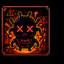
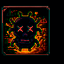
removido iconSecondary de 30 skills

diff --git a/backend/scripts/process-beta-icons.ts b/backend/scripts/process-beta-icons.ts
@@ -1,0 +1,72 @@
+import sharp from 'sharp';
+import path from 'path';
+import fs from 'fs';
+import { PrismaClient } from '@prisma/client';
+import { openTunnel } from './db-tunnel';
+
+const src = 'C:/Users/Dark/Desktop/Beta Tester.png';
+const outDir = path.resolve(__dirname, '../../frontend/public/iconskill');
+const names = [
+  'beta-comando-basico',
+  'beta-injecao-de-bug',
+  'beta-overclock-de-sistema',
+  'beta-exploit-de-vulnerabilidade',
+  'beta-crash-de-realidade',
+];
+
+async function main() {
+  const meta = await sharp(src).metadata();
+  console.log(`Original: ${meta.width}x${meta.height}`);
+
+  const cellW = Math.floor(meta.width! / 5);
+  const cellH = meta.height!;
+  const size = Math.min(cellW, cellH);
+
+  fs.mkdirSync(outDir, { recursive: true });
+
+  for (let i = 0; i < 5; i++) {
+    const left = i * cellW + Math.floor((cellW - size) / 2);
+    const top = Math.floor((cellH - size) / 2);
+
+    const { data, info } = await sharp(src)
+      .extract({ left, top, width: size, height: size })
+      .resize(64, 64, { fit: 'fill' })
+      .raw()
+      .toBuffer({ resolveWithObject: true });
+
+    const channels = info.channels;
+    for (let p = 0; p < data.length; p += channels) {
+      const r = data[p], g = data[p + 1], b = data[p + 2];
+      if (r < 30 && g < 30 && b < 30) {
+        data[p + 3] = 0;
+      }
+    }
+
+    const png = await sharp(data, { raw: { width: 64, height: 64, channels } })
+      .png()
+      .toBuffer();
+
+    const file = path.join(outDir, names[i] + '.png');
+    fs.writeFileSync(file, png);
+    console.log(`${names[i]}.png: ${png.length} bytes`);
+  }
+
+  const tunnel = await openTunnel();
+  const p = new PrismaClient({ datasources: { db: { url: tunnel.url } } });
+  try {
+    const classes = await p.gameClass.findMany({ select: { id: true } });
+    const classIds = classes.map(c => c.id);
+    const result = await p.skill.updateMany({
+      where: { classId: { in: classIds } },
+      data: { iconSecondary: null },
+    });
+    console.log(`iconSecondary removido de ${result.count} skills`);
+  } finally {
+    await p.$disconnect().catch(() => {});
+    tunnel.close();
+  }
+
+  console.log('OK');
+}
+
+main().catch((e) => { console.error(e.message); process.exit(1); });

diff --git a/frontend/src/pages/ClassPage.tsx b/frontend/src/pages/ClassPage.tsx
@@ -166,11 +166,8 @@ export function ClassPage() {
           }`}>
             {locked ? <Lock size={16} className="text-gray-300" />
               : skill.icon ? (
-                <div className="relative w-10 h-10 flex items-center justify-center">
+                <div className="w-10 h-10 flex items-center justify-center">
                   <EntityIcon src={skill.icon} size={22} className="text-white" imgClassName="w-8 h-8 object-contain" />
-                  {skill.iconSecondary && (
-                    <EntityIcon src={skill.iconSecondary} size={22} className="absolute inset-0" imgClassName="absolute inset-0 w-8 h-8 m-auto object-contain translate-x-1 translate-y-1" />
-                  )}
                 </div>
               )
               : isUlt ? <Zap size={18} className="text-white" />
@@ -384,11 +381,8 @@ export function ClassPage() {
             <div>
               <div className="flex items-center gap-2">
                 {selectedSkill.icon && (
-                  <div className="relative w-8 h-8 shrink-0">
+                  <div className="w-8 h-8 shrink-0">
                     <EntityIcon src={selectedSkill.icon} size={22} className="text-white" imgClassName="w-full h-full object-contain" />
-                    {selectedSkill.iconSecondary && (
-                      <EntityIcon src={selectedSkill.iconSecondary} size={22} className="absolute inset-0" imgClassName="absolute inset-0 w-full h-full object-contain translate-x-1 translate-y-1" />
-                    )}
                   </div>
                 )}
                 <h3 className="text-lg font-display font-bold">{selectedSkill.name}</h3>

diff --git a/admin/src/pages/SkillsPage.tsx b/admin/src/pages/SkillsPage.tsx
@@ -174,7 +174,6 @@ export default function SkillsPage() {
       slug: form.slug || form.name.toLowerCase().normalize("NFD").replace(/[\u0300-\u036f]/g, "").replace(/[^a-z0-9]+/g, "-").replace(/^-+|-+$/g, "") || `skill-${Date.now()}`,
       description: form.description,
       icon: form.icon || null,
-      iconSecondary: form.iconSecondary || null,
       kind: form.kind,
       trigger: form.trigger,
       target: form.target,
@@ -698,10 +697,6 @@ export default function SkillsPage() {
                 <div>
                   <label className="block text-sm text-gray-400 mb-1.5">Icon</label>
                   <IconPicker categories={["Skills"]} value={form.icon} onChange={(v) => setForm({ ...form, icon: v })} placeholder="Ícone principal da skill" />
-                </div>
-                <div>
-                  <label className="block text-sm text-gray-400 mb-1.5">Icon Secundário (efeito)</label>
-                  <IconPicker categories={["Skills"]} value={form.iconSecondary} onChange={(v) => setForm({ ...form, iconSecondary: v })} placeholder="Ícone extra exibido junto" />
                 </div>
                 <div className="sm:col-span-2">
                   <button

diff --git a/frontend/src/pages/CombatPage.tsx b/frontend/src/pages/CombatPage.tsx
@@ -790,11 +790,8 @@ export function CombatPage() {
                     {locked ? (
                       <Lock size={18} className="mx-auto mb-1 text-gray-500" />
                     ) : skill.icon ? (
-                      <div className="relative mx-auto mb-1 w-6 h-6">
+                      <div className="mx-auto mb-1 w-6 h-6">
                         <EntityIcon src={skill.icon} size={22} className="mx-auto" imgClassName="w-full h-full object-contain" />
-                        {skill.iconSecondary && (
-                          <EntityIcon src={skill.iconSecondary} size={22} className="absolute inset-0" imgClassName="absolute inset-0 w-full h-full object-contain translate-x-1 translate-y-1" />
-                        )}
                       </div>
                     ) : skill.trigger === "ultimate" ? (
                       <Zap size={18} className="mx-auto mb-1 text-yellow-400" />

diff --git a/frontend/src/pages/ArenaPage.tsx b/frontend/src/pages/ArenaPage.tsx
@@ -530,11 +530,8 @@ export function ArenaPage() {
                         </span>
                       )}
                       {skill.icon ? (
-                        <div className="relative w-6 h-6 mx-auto mb-1">
+                        <div className="w-6 h-6 mx-auto mb-1">
                           <EntityIcon src={skill.icon} size={22} className="mx-auto" imgClassName="w-full h-full object-contain" />
-                          {skill.iconSecondary && (
-                            <EntityIcon src={skill.iconSecondary} size={22} className="absolute inset-0" imgClassName="absolute inset-0 w-full h-full object-contain translate-x-1 translate-y-1" />
-                          )}
                         </div>
                       ) : skill.trigger === "ultimate" ? (
                         <Zap size={18} className="mx-auto mb-1 text-yellow-400" />

diff --git a/backend/scripts/remove-secondary-icons.ts b/backend/scripts/remove-secondary-icons.ts
@@ -1,0 +1,24 @@
+import { PrismaClient } from '../src/generated/prisma';
+
+const prisma = new PrismaClient();
+
+async function main() {
+  const result = await prisma.skill.updateMany({
+    where: { classId: { not: null } },
+    data: { iconSecondary: null },
+  });
+  console.log(`iconSecondary removido de ${result.count} skills`);
+
+  const check = await prisma.skill.findMany({
+    where: { iconSecondary: { not: null } },
+    select: { name: true, iconSecondary: true },
+  });
+  if (check.length > 0) {
+    console.log('Ainda restam skills com iconSecondary:');
+    check.forEach(s => console.log(`  ${s.name}: ${s.iconSecondary}`));
+  } else {
+    console.log('Todas as skills com iconSecondary = null. OK');
+  }
+}
+
+main().finally(() => prisma.$disconnect());
